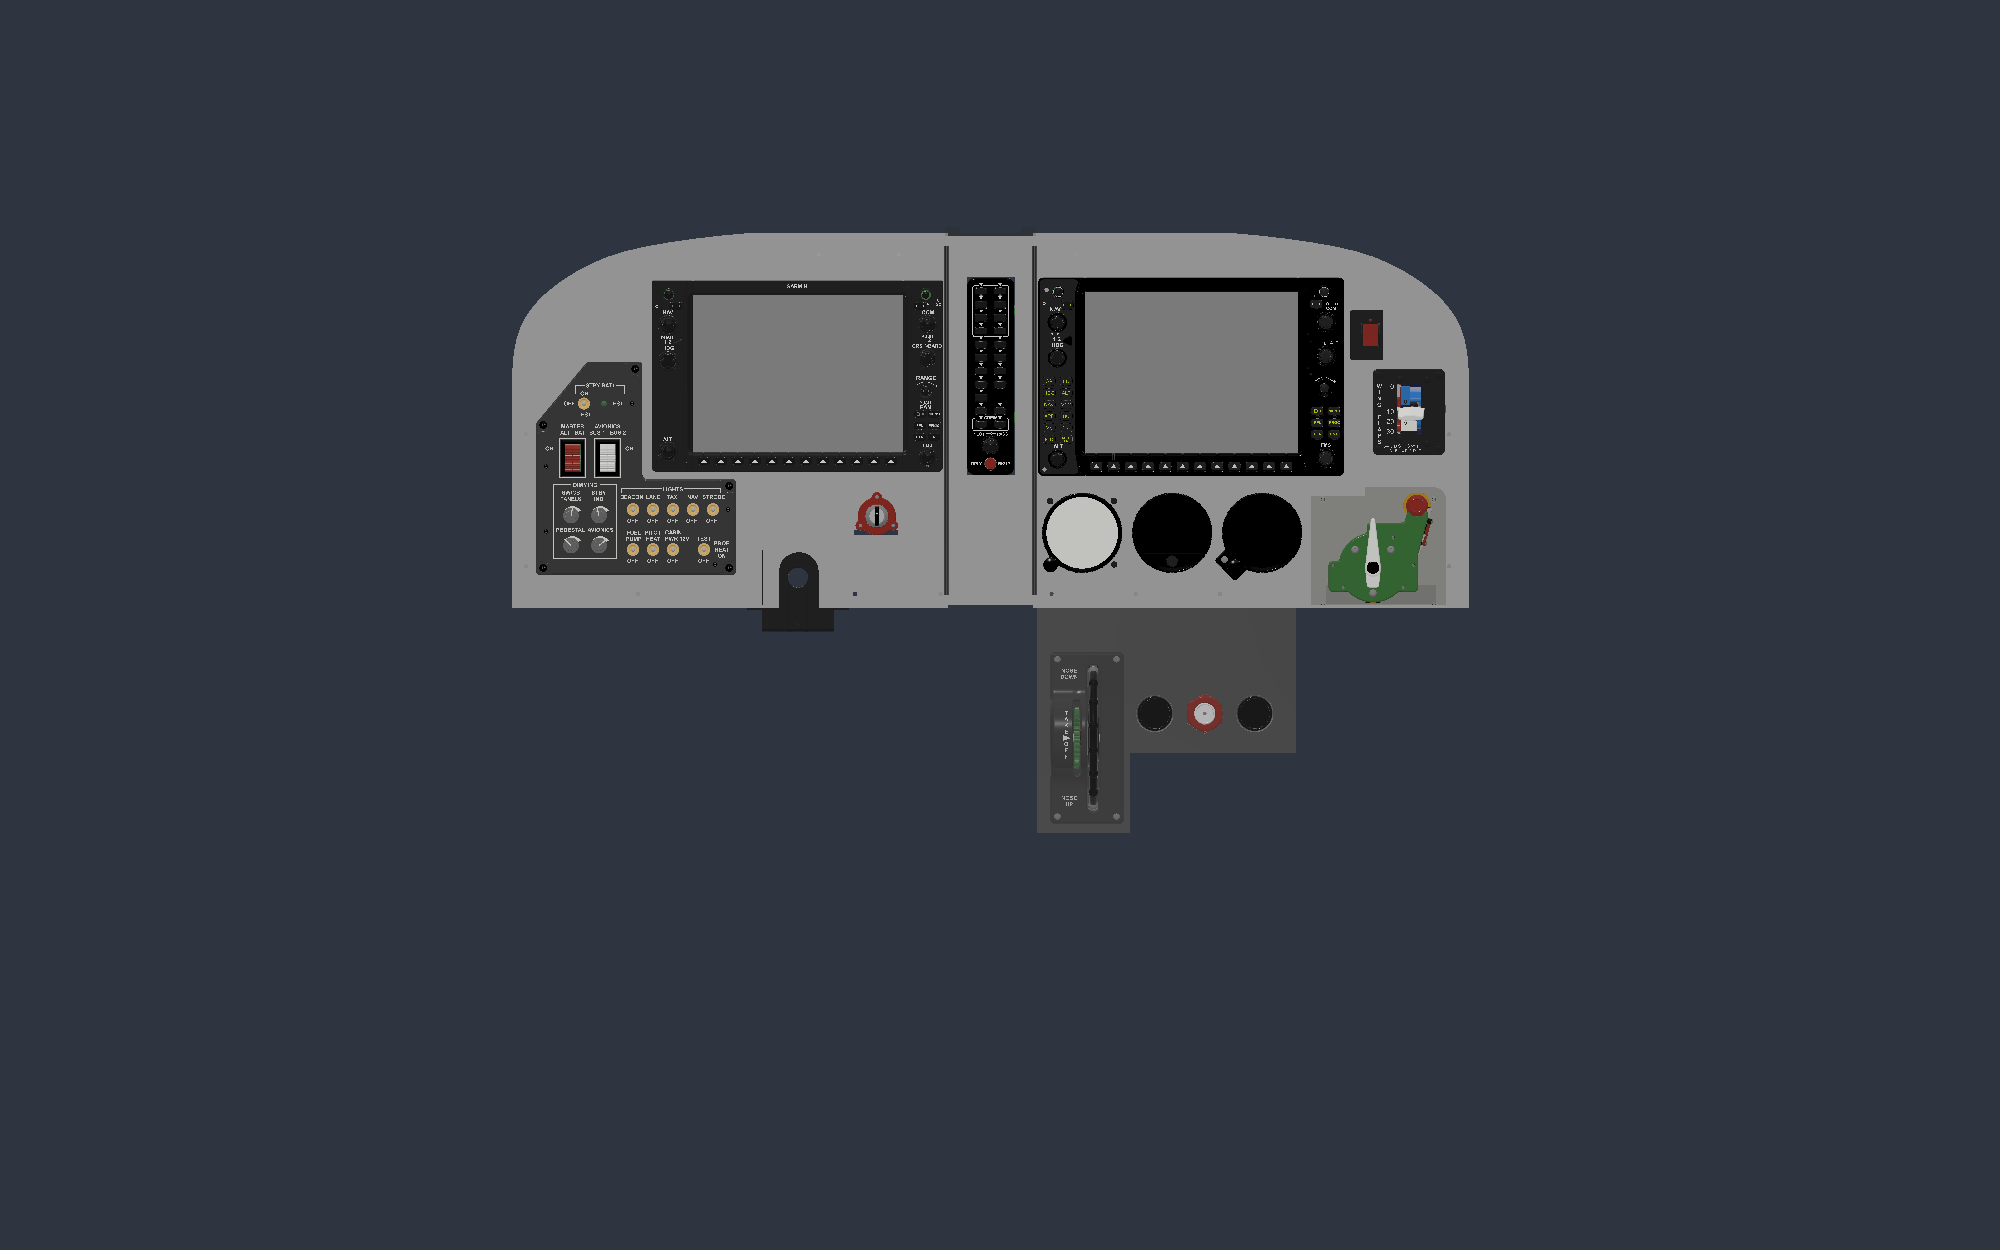
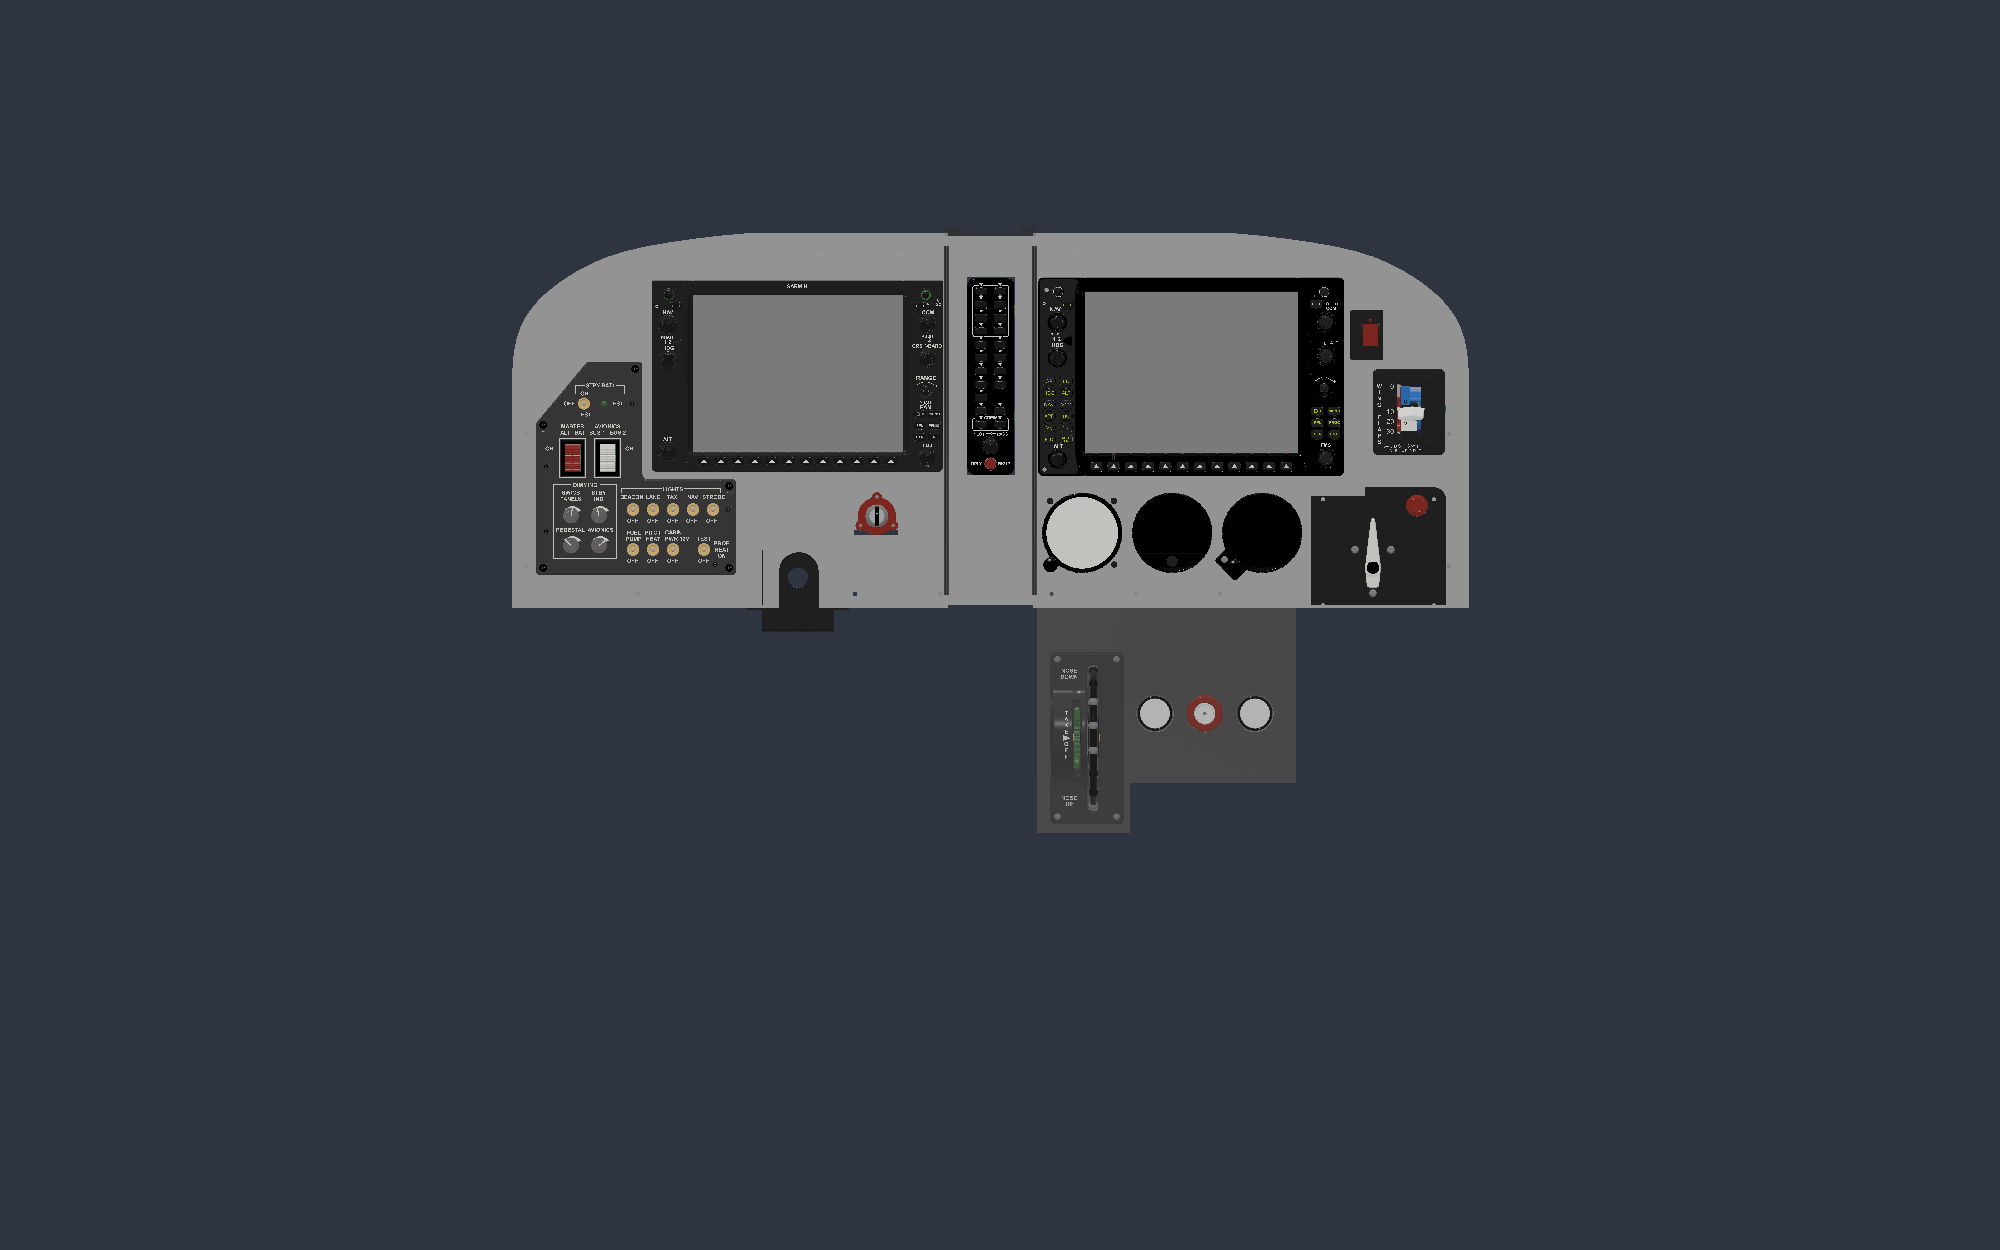
Fuel selector face plate visible; throttle V2 for throttle and prop
His embossed fuel selector face, trimmed to 135 x 109, now modelled solid black
(it rendered clear and merged both face variants). TPM pod uses his 172 THROTTLE
V2 for throttle and prop, pushed in; pod 255 mm deep for the racks. Clash and
desk checks clean. BOM updated.

Changed region(s): [[0.651, 0.3744, 0.744, 0.4992], [0.558, 0.5616, 0.651, 0.624]]

diff --git a/fusion/place_vendor.py b/fusion/place_vendor.py
@@ -31,17 +31,19 @@ PLACE = {
 # rods reach ~171 mm behind the face (right rear tub is deeper for this). Each is placed child by child into a
 # wrapper component.  (key, wrapper name, host, du, dy, dz, {child-name prefix: extra dy, None = leave out})
 MOVE_T = {'8mm x 198mm brass rod': -62.0, '5 Throttle Knob (1)': -62.0, '8 Ferrule (1)': -62.0, '5 Throttle Knob (2)': None}
+MOVE_V2 = {'8mm x 198mm brass rod': -62.0, '5 Throttle Knob': -62.0, '9 Silver Cap': -62.0, '172 THR RACK': -62.0}
 MOVE_M = {'Mix Tube': -60.0, '3 Mix Knob': -60.0, '8 Ferrule': -60.0}
 SPLIT = [
     # fuel selector on the main panel, right of the standby gauges; his 135 x 130 face plate is left out and replaced by
     # a printed 135 x 109 one (build_lower) so it fits under the MFD bezel
     ('G1000 V2 v1:1', 'MFD (G1000 V2, no back plate)', 'Right half', 25.0, 2.0, 0.0, {'Component17': None}),
     ('FSP3 v1:1', 'Fuel selector (trimmed face)', 'Right half', 633.0, 8.0, 252.0, {'1 Facepanel': None}),
-    ('Lower Panel Assy v1:1/throt temp v1:1', 'Throttle (push-pull, pushed in)', 'Pod: TPM quadrant (clamp-on)', 74.0, 12.0, -48.0, MOVE_T),   # knob u 640
+    # Throttle and prop: his 172 THROTTLE V2 (rack + gear pot), pushed in (knob, rod, cap and rack 62 mm back)
+    ('172 THROTTLE V2 v1:1', 'Throttle (V2, pushed in)', 'Pod: TPM quadrant (clamp-on)', 75.0, 0.0, 49.0, MOVE_V2),   # knob u 640
     ('Lower Panel Assy v1:1/Mix Lever v1:1', 'Mixture (push-pull, pushed in)', 'Pod: TPM quadrant (clamp-on)', 73.0, 12.0, -48.0, MOVE_M),     # knob u 690
-    ('Lower Panel Assy v1:1/throt temp v1:1', 'Condition (throttle copy, pushed in)', 'Pod: TPM quadrant (clamp-on)', 174.0, 12.0, -48.0, MOVE_T),  # knob u 740
+    ('172 THROTTLE V2 v1:1', 'Prop (V2 throttle, pushed in)', 'Pod: TPM quadrant (clamp-on)', 175.0, 0.0, 49.0, MOVE_V2),   # knob u 740
 ]
-LOWER = ('Throttle', 'Mixture', 'Condition', 'Trim')
+LOWER = ('Throttle', 'Mixture', 'Prop', 'Trim')
 REMOVABLE = ('dUAL kNOB',)     # knobs that come off for travel (GMA volume knob)
 
 

diff --git a/fusion/build_lower.py b/fusion/build_lower.py
@@ -15,10 +15,10 @@ P = bcm.P
 
 # pod name -> (u0, u1, bottom z, box depth)
 PODS = {'Pod: trim wheel (clamp-on)': (525.0, 612.0, -225.0, 140.0),
-        'Pod: TPM quadrant (clamp-on)': (615.0, 778.0, -145.0, 190.0)}
+        'Pod: TPM quadrant (clamp-on)': (615.0, 778.0, -175.0, 255.0)}   # V2 throttles: rack runs 244 mm back when pushed in
 HOST = {k: k for k in PODS}
 BOX_DEPTH = {k: v[3] for k, v in PODS.items()}
-LOWER = ('Throttle', 'Mixture', 'Condition', 'Trim')
+LOWER = ('Throttle', 'Mixture', 'Prop', 'Trim')
 FSP_FACE = dict(u0=796.0, u1=931.0, z0=0.0, z1=109.0, tab=(850.0, 931.0, 118.0), shaft=(858.0, 40.0, 16.0), lever=(890.0, 914.0, 87.0, 111.0))
 
 
@@ -74,7 +74,7 @@ def build_lower():
                         lo = [min(lo[0], bb.minPoint.x), min(lo[1], bb.minPoint.z)]
                         hi = [max(hi[0], bb.maxPoint.x), max(hi[1], bb.maxPoint.z)]
                 stack.extend(list(o.childOccurrences))
-            if hi[0] > lo[0] and ch.component.name.startswith(('Throttle', 'Mixture', 'Condition')):
+            if hi[0] > lo[0] and ch.component.name.startswith(('Throttle', 'Mixture', 'Prop')):
                 # push-pulls get a ROUND hole on the rod axis: 31 mm for the throttle friction screw, 27 mm for the
                 # mixture screw (check both against the 737DIYSIM throttle guide before drilling)
                 axis = None
@@ -135,7 +135,7 @@ def build_lower():
     keep = box(X(f['u0']) - 1, X(f['u1']) + 1, -5.0, 20.0, f['z0'], f['z1'])
     tbm.booleanOperation(keep, box(X(f['tab'][0]), X(f['tab'][1]) + 1, -5.0, 20.0, f['z1'] - 1, f['tab'][2]), UNI)
     plate = None
-    st = [face]
+    st = [c for c in face.childOccurrences if 'EMBOSSED' in c.name.upper()]   # one of his two face variants, no screws
     while st:
         q = st.pop()
         for bd in q.bRepBodies:

diff --git a/fusion/rebuild_mip.py b/fusion/rebuild_mip.py
@@ -38,6 +38,10 @@ def run(_context: str):
                         b.material = lib.materials.itemByName(v)
                 if b.name.startswith('ZONE'):
                     b.isLightBulbOn = False
+                if b.name.startswith('PRINT fuel selector'):
+                    alib = app.materialLibraries.itemByName('Fusion Appearance Library')
+                    ap = d.appearances.itemByName('Plastic - Matte (Black)') or d.appearances.addByCopy(alib.appearances.itemByName('Plastic - Matte (Black)'), 'Plastic - Matte (Black)')
+                    b.appearance = ap
         if o.name.startswith('MIP') or o.component.name.startswith('737DIYSIM'):
             o.isLightBulbOn = False
     print('rebuilt')

diff --git a/docs/BOM_MIP_Folding_Case.md b/docs/BOM_MIP_Folding_Case.md
@@ -44,13 +44,13 @@ The panels are 9 mm plywood and the skins are 3 mm. The rim skins wrap the curve
 | Main panel, left | 9 mm ply | 430 × 369 | 1 | From his MIP panel file; yoke hole + slot, ignition key cut-out |
 | Main panel, right | 9 mm ply | 430 × 369 | 1 | His right section plus the 6 mm edge strip; fuel selector and flaps cut-outs |
 | Spacer panel | 9 mm ply | 85 × 369 | 1 | 48 × 198 cutout for the GMA 1347 |
-| TPM pod front plate | 9 mm ply | 163 × 142 | 1 | Throttle 31, mixture 27, condition 31 mm holes |
+| TPM pod front plate | 9 mm ply | 163 × 172 | 1 | Throttle 31, mixture 27, prop 31 mm holes |
 | Trim wheel pod front plate | 9 mm ply | 87 × 222 | 1 | Trim case cut-out |
 | Rim skin, left | 3 mm bending ply or 1.5 mm aluminium | about 1140 × 116 developed | 1 | Tunnel and slot cut in the bottom |
 | Rim skin, right | 3 mm bending ply or 1.5 mm aluminium | about 1140 × 134 developed | 1 | Right box is 90 mm deep |
 | Rear lid | 3 mm ply | about 433 × 375, curved top corner | 2 | Left lid has the tunnel notch |
 | Seam side wall | 3 mm ply | 43 × 375 (left), 61 × 375 (right) | 2 | Hinge side of each box |
-| TPM pod box | 3 mm ply | bottom 169 × 237, lid 163 × 101, shelf 163 × 159, back 163 × 38, 2 sides 237 × 104 + 78 × 41 | 1 set | 190 mm deep under the desk for the rods |
+| TPM pod box | 3 mm ply | bottom 169 × 302, lid 163 × 131, shelf 163 × 224, back 163 × 38, 2 sides 302 × 134 + 78 × 41 | 1 set | 255 mm deep under the desk for the throttle V2 racks |
 | Trim wheel pod box | 3 mm ply | bottom 93 × 187, lid 87 × 181, shelf 87 × 109, back 87 × 38, 2 sides 187 × 184 + 78 × 41 | 1 set | 140 mm deep under the desk |
 
 One 1220 × 610 sheet of 9 mm ply covers all five panels and plates. One 1220 × 610 sheet of 3 mm ply covers the lids, seam walls and both pod boxes. The rim skins are about 1.15 m long, so buy them as a long strip or join them at the top straight run.
@@ -91,7 +91,7 @@ The case holds 737DIYSIM modules built from his files. The rest is off the shelf
 | ELT switch | 737DIYSIM | 1 | Right half |
 | Yoke adapter | 737DIYSIM | 1 | Left half, at the yoke shaft height |
 | Trim wheel (Trim v15) | 737DIYSIM | 1 | Trim wheel pod |
-| Throttle push-pull (lower-panel version) | 737DIYSIM | 2 | TPM pod: one throttle, one used as condition |
+| Throttle V2 (172 THROTTLE V2, rack + gear pot) | 737DIYSIM | 2 | TPM pod: throttle and prop |
 | Mixture push-pull | 737DIYSIM | 1 | TPM pod |
 | Powered USB hub, 7-port (about 115 × 45 × 25) | Off the shelf | 1 | Right box, behind the MFD |
 | 12 V power supply, LRS-50-12 size (99 × 82 × 30) | Off the shelf | 1 | Right box, behind the MFD |
@@ -104,7 +104,7 @@ Every printed case part fits the A1's 256 × 256 × 256 mm build volume. Print i
 
 | Part | Size (mm) | Qty | Fits 256 bed | Print notes |
 | --- | --- | --- | --- | --- |
-| Fuel selector face plate | 135 × 109 × 10 | 1 | Yes | His face plate file, trimmed 10.5 mm top and bottom (tab kept under the shut-off lever) |
+| Fuel selector face plate | 135 × 109 × 10 | 1 | Yes | His embossed face plate file, trimmed 10.5 mm top and bottom (tab kept under the shut-off lever) |
 | Pod hanger bracket | 20 × 30 × 2 | 4 | Yes | Two per pod; or 20 × 3 mm aluminium flat bar |
 | Glareshield middle piece | 91 × 56 × 9 | 1 | Yes | Top face down; 4 magnet pockets |
 
@@ -113,9 +113,9 @@ Router jigs for the panel cut-outs (16 prints, all within the bed) are in the fa
 ## Open items
 
 - [ ] Confirm the yoke shaft height: the model assumes about 36 mm above the desk.
-- [ ] Check under the desk where the pods go: the TPM pod reaches 190 mm and the trim pod 140 mm back under the desktop.
+- [ ] Check under the desk where the pods go: the TPM pod reaches 255 mm and the trim pod 140 mm back under the desktop.
 - [ ] Check the yoke clamp clears the main unit; the panel stands 40 mm in front of the desk edge.
 - [ ] Check the MFD's knob encoders: a few sit up to 2 mm into the panel back at the cut-out edges, so relieve the panel there.
 - [ ] Pick the rim material: 3 mm bending ply or 1.5 mm aluminium.
 - [ ] Model the pod brackets, the closing latches and the carry handle.
-- [ ] Confirm the throttle (31 mm) and mixture (27 mm) hole sizes against his throttle guide.
+- [ ] Confirm the throttle / prop (31 mm) and mixture (27 mm) hole sizes against his throttle guides.
